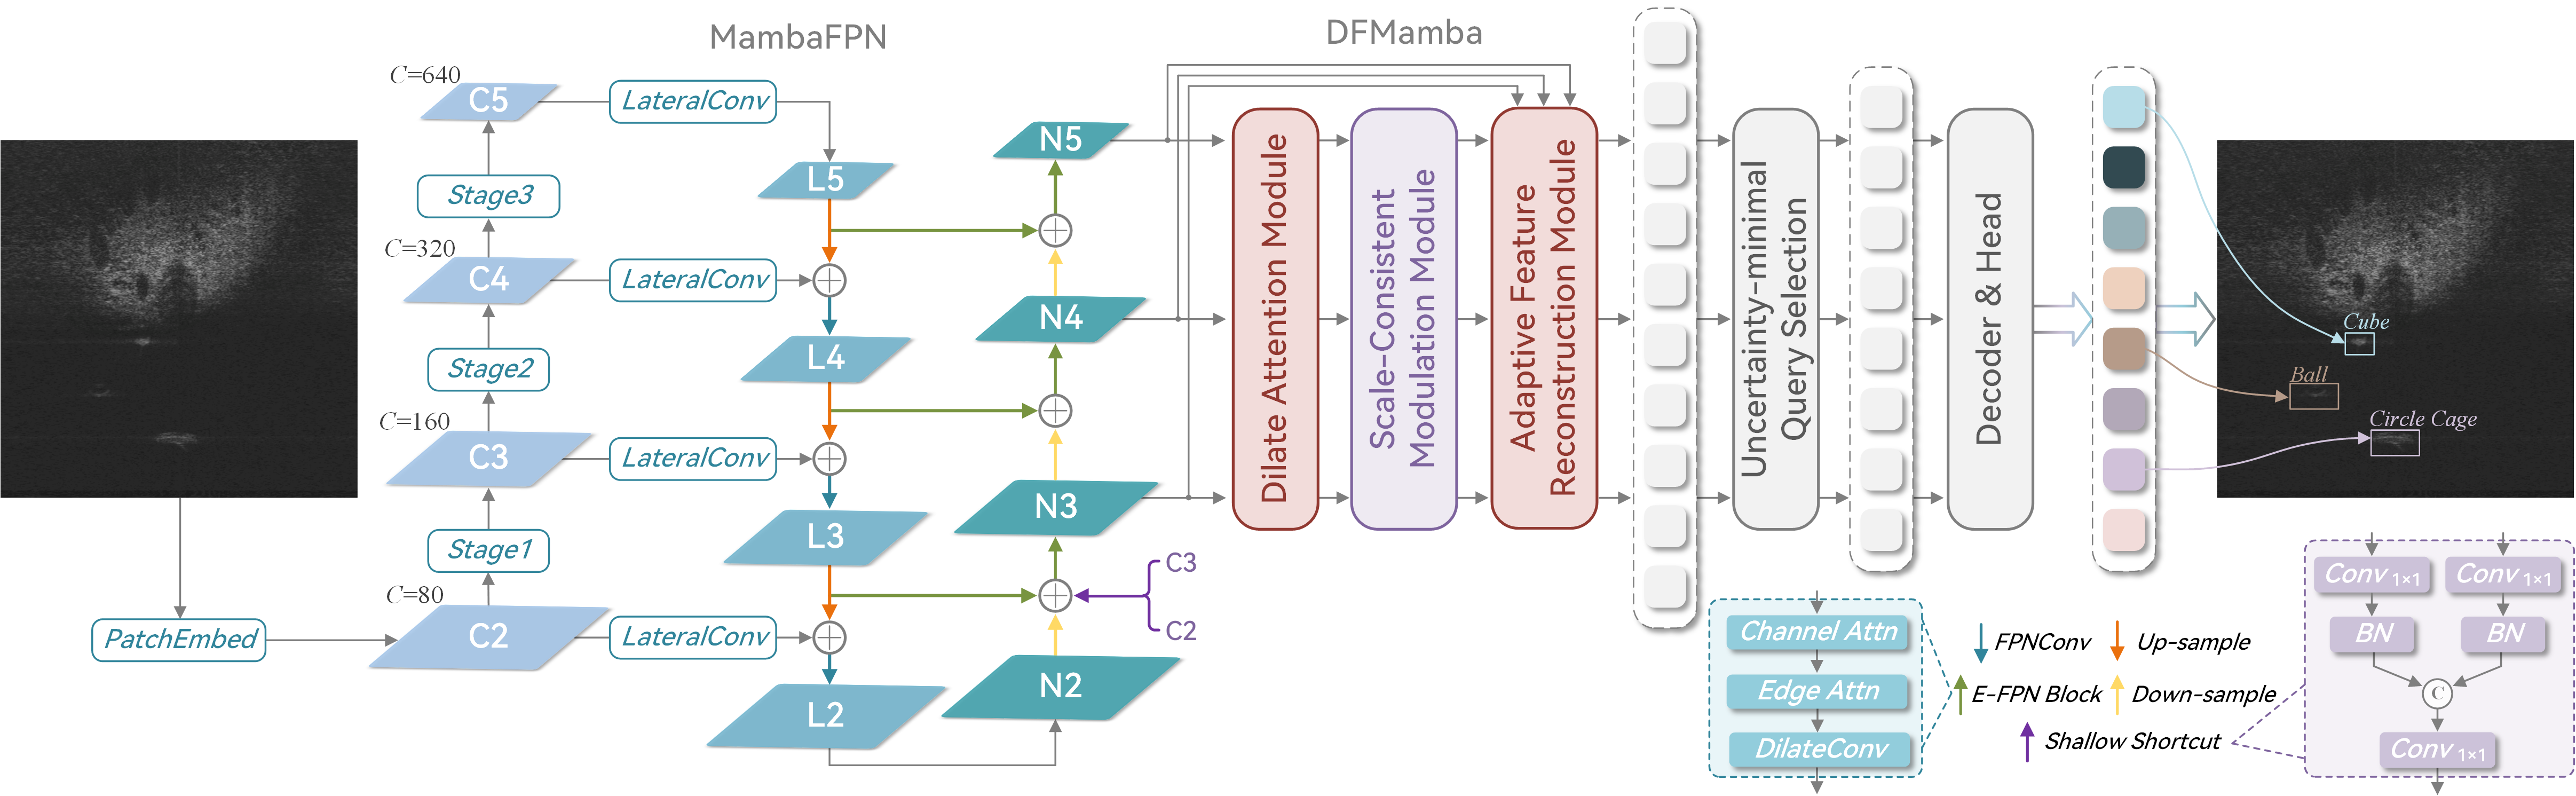
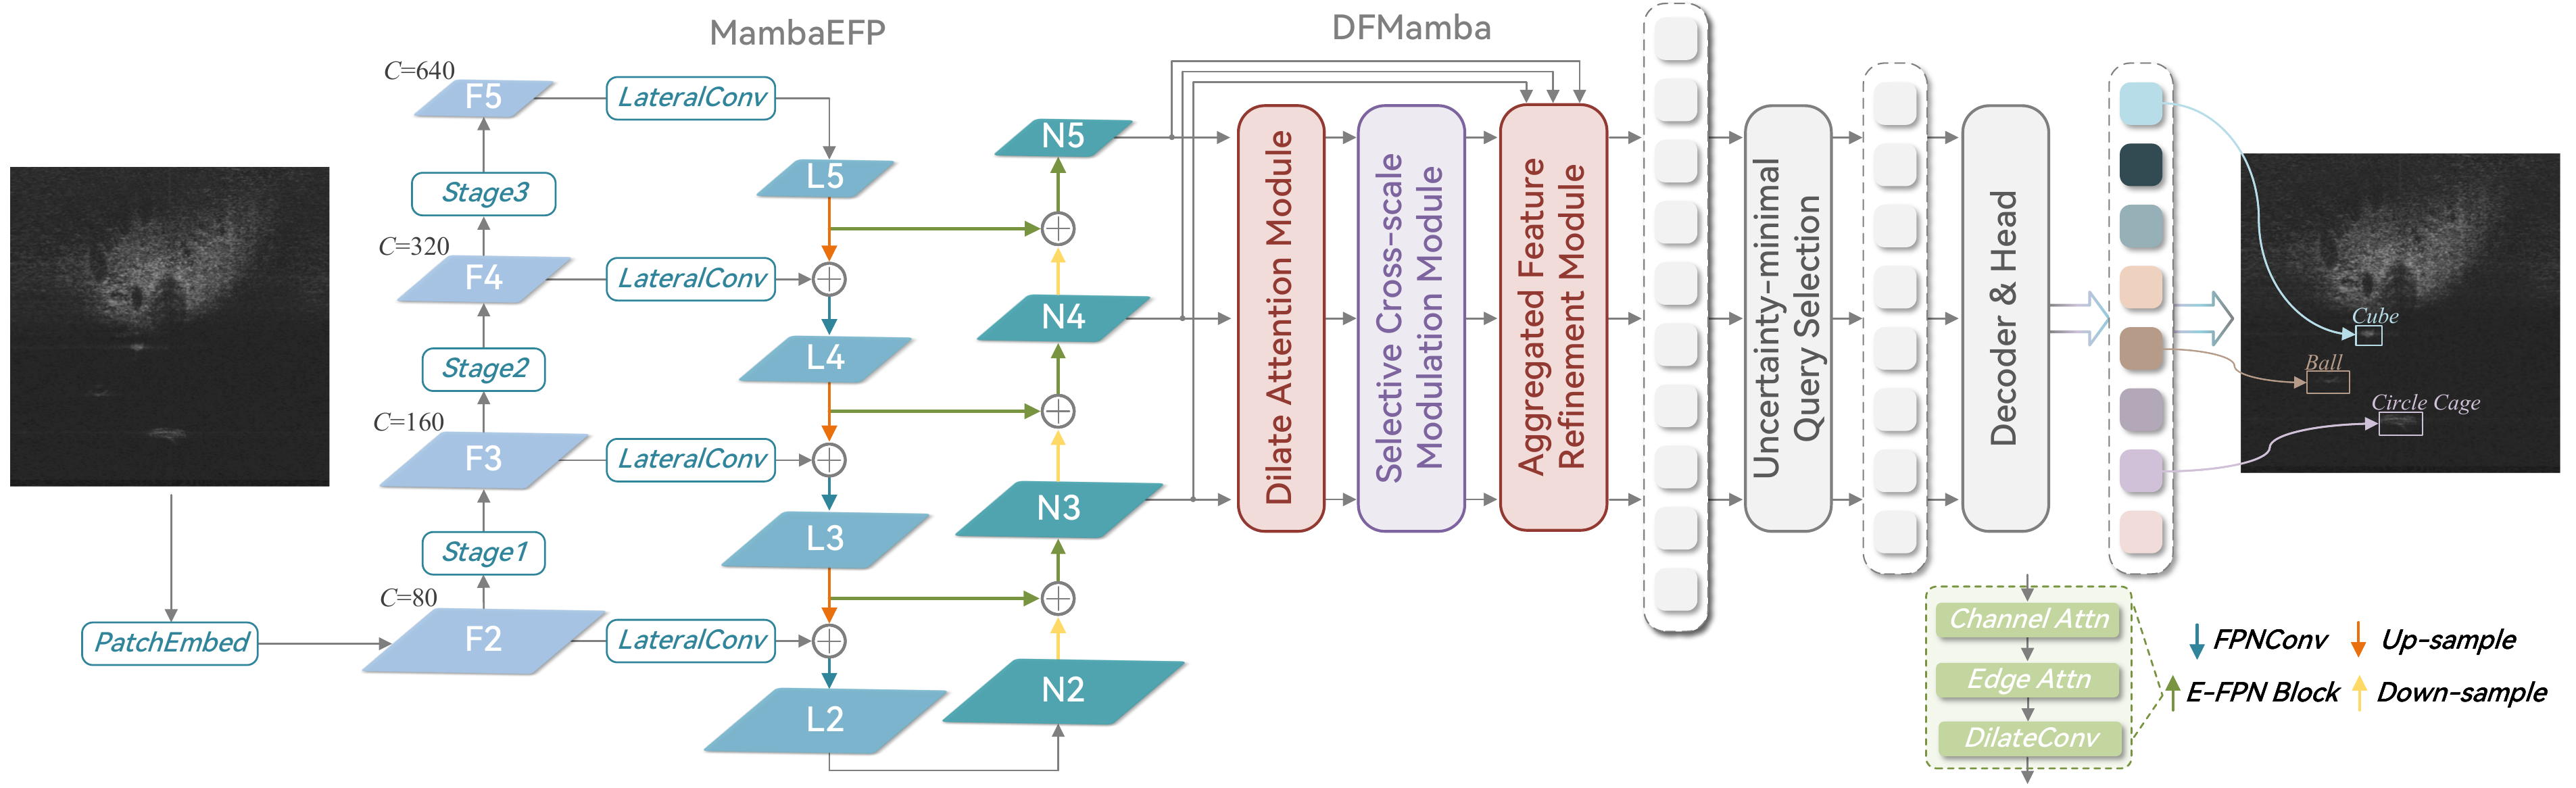
Update README for revised MambaDSF release

diff --git a/README.md b/README.md
@@ -1,9 +1,9 @@
 # MambaDSF
 
 [![License: CC BY-NC-SA 4.0](https://img.shields.io/badge/License-CC%20BY--NC--SA%204.0-lightgrey.svg)](https://creativecommons.org/licenses/by-nc-sa/4.0/)
-[![Paper Status](https://img.shields.io/badge/Paper-Under%20Review-orange.svg)]()
+[![Paper Status](https://img.shields.io/badge/Paper-Revised%20Submission-orange.svg)](https://www.grss-ieee.org/publications/geoscience-and-remote-sensing-letters/)
 
-**Hybrid Mamba-Transformer with Multi-Scale Dilated Attention for Small Target Detection in Sonar Images**
+## Multi-Scale State-Space Model with Dilated Feature Fusion for Sonar Small Target Detection
 
 > ⚠️ **Notice**: This paper is currently **under review** at *IEEE Geoscience and Remote Sensing Letters (GRSL)*. Please do not publish derivative works or competing papers based on this code before our paper is officially published. If you wish to use this code for academic research, please contact us first.
 
@@ -13,24 +13,26 @@
 
 ## Overview
 
-MambaDSF is a hybrid framework that leverages selective state space models (SSMs) for linear-complexity global context modeling in sonar imagery. The framework addresses three key challenges in small target detection:
+MambaDSF is a sonar small-target detection framework that integrates selective state-space modeling with dilated feature fusion. It is designed for forward-looking sonar imagery, where target echoes are often compact, low-contrast, and easily confused with reverberation or background structures.
 
-- **Scarce discriminative features**: Small targets span limited pixels and may reduce to one or two feature-map cells after downsampling.
-- **Low signal-to-noise ratio**: Target responses are comparable in intensity to reverberation and speckle noise.
-- **Scale ambiguity**: Apparent target size varies with imaging range and resolution.
+The framework addresses three practical challenges:
+
+- **Scarce target pixels**: Small sonar targets occupy limited image regions and may collapse to very few feature-map cells after downsampling.
+- **Background ambiguity**: Reverberation, speckle-like noise, and object-shaped clutter can produce echo patterns that resemble true targets.
+- **Multi-scale appearance variation**: The apparent target size and echo envelope vary with imaging range, viewpoint, and dataset domain.
 
 ## Architecture
 
-MambaDSF consists of three main components:
+MambaDSF consists of three main components synchronized with the current manuscript:
 
-1. **MambaFPN Backbone**: Couples MambaVision with a bidirectional feature pyramid (FPN + PANet) for multi-scale extraction and long-range dependency modeling.
-2. **DFMamba Encoder**: Performs intra-scale dilated attention at four receptive-field scales and cross-scale SSM fusion for semantic alignment.
-3. **SA-WIoU & CSC Loss**: SA-WIoU (Size-Adaptive Wasserstein-IoU) for small target regression and CSC (Cross-Scale Semantic Consistency) loss for multi-scale feature alignment.
+1. **MambaEFP Backbone**: Enhances MambaVision with efficient feature-pyramid propagation for global acoustic context modeling and multi-scale feature extraction.
+2. **DFMamba Encoder**: Combines dilated local attention with Fusion State-Space Modeling (FusSSM) to align local target details and cross-scale semantic information.
+3. **SA-WIoU & CSC Losses**: Introduces Scale-Adaptive Weighted IoU (SA-WIoU) for small-target localization and Cross-Scale Semantic Consistency (CSC) for feature alignment across detection scales.
 
 ### Qualitative Comparison
 
 <p align="center">
-  <img src="assets/Compare120dpi.png" width="100%" alt="Detection Comparison">
+  <img src="assets/Compare5.png" width="100%" alt="Detection Comparison">
 </p>
 
 *Qualitative comparison on representative UATD test samples across eight detection methods.*
@@ -57,9 +59,10 @@ This work was supported in part by the National Natural Science Foundation of Ch
 
 ## Contact
 
-- Hui Lin: [email redacted]
-- Jiayi Li: [email redacted]
-- Shenghui Rong (Corresponding): [email redacted]
+- Hui Lin: [[email redacted]](mailto:[email redacted])
+- Jiayi Li: [[email redacted]](mailto:[email redacted]) ([GitHub](https://github.com/leanoLEE58))
+- Jing Wang: [[email redacted]](mailto:[email redacted])
+- Shenghui Rong (Corresponding): [[email redacted]](mailto:[email redacted])
 
 ## License
 